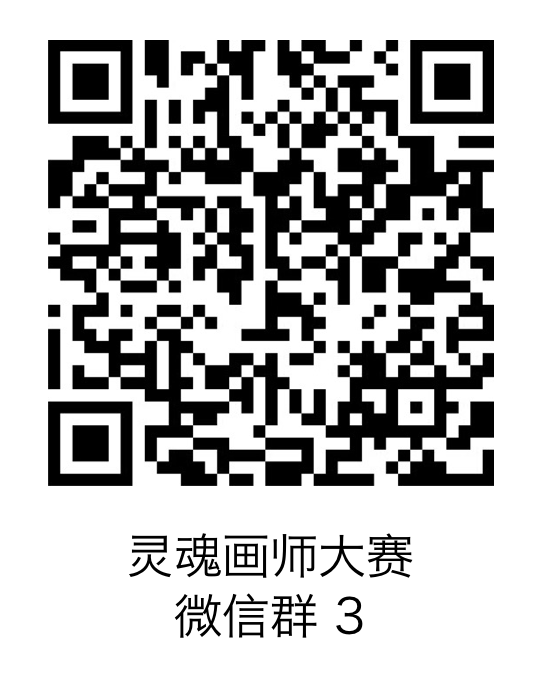
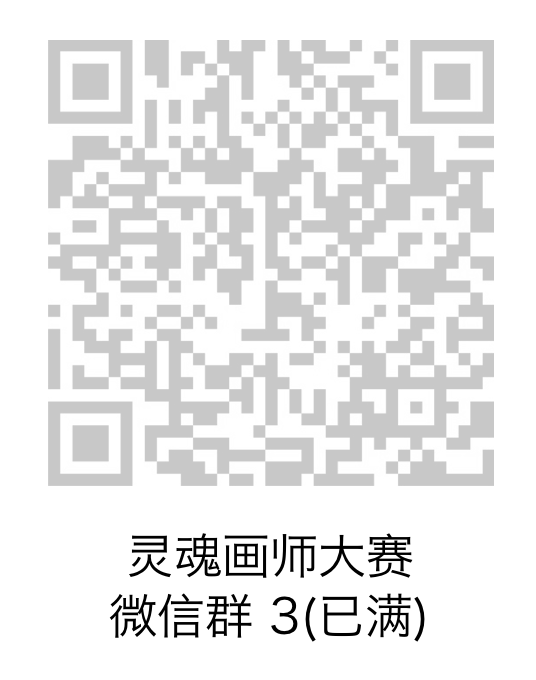
add qrcode4

diff --git a/event.html b/event.html
@@ -41,7 +41,7 @@
       <h3>奖项设置</h3>
       <p>1. 三名优胜画师，每人颁发 10,000 元奖金；<br>2. 七名优秀画师，每人颁发 3,000 元奖金；<br>3. 有机会获邀成为我们的签约设计师。<a href="https://sunday37.com/" class="link-8">（关于我们）</a></p>
       <h3>参赛方式</h3>
-      <p>1. 投稿邮箱：hi@sunday37.com ；<br>2. 请于邮件标题注明「灵魂画师投稿+姓名+手机号」，将作品的源文件压缩 zip 贴于邮件附件，注意附件文件名应包含姓名；<br>3. 还可在正文附带个人简介若干、作品集，或其它你希望我们了解你的信息。<br>4. <B>请加活动微信群：</B></p><img src="images/Artboard-1.png" width="180"><img src="images/Artboard-2.png" width="180"><img src="images/Artboard-3.png" width="180">
+      <p>1. 投稿邮箱：hi@sunday37.com ；<br>2. 请于邮件标题注明「灵魂画师投稿+姓名+手机号」，将作品的源文件压缩 zip 贴于邮件附件，注意附件文件名应包含姓名；<br>3. 还可在正文附带个人简介若干、作品集，或其它你希望我们了解你的信息。<br>4. <B>请加活动微信群：</B></p><img src="images/Artboard-1.png" width="180"><img src="images/Artboard-2.png" width="180"><img src="images/Artboard-3.png" width="180"><img src="images/Artboard-4.png" width="180">
       <h3>时间</h3>
       <p>投稿启动：2018年5月1日<br>投稿截止：2018年5月20日（已延长）<br>项目评选：2018年5月21日<br>结果公布：2018年5月28日</p>
       <h3>参赛须知</h3>
